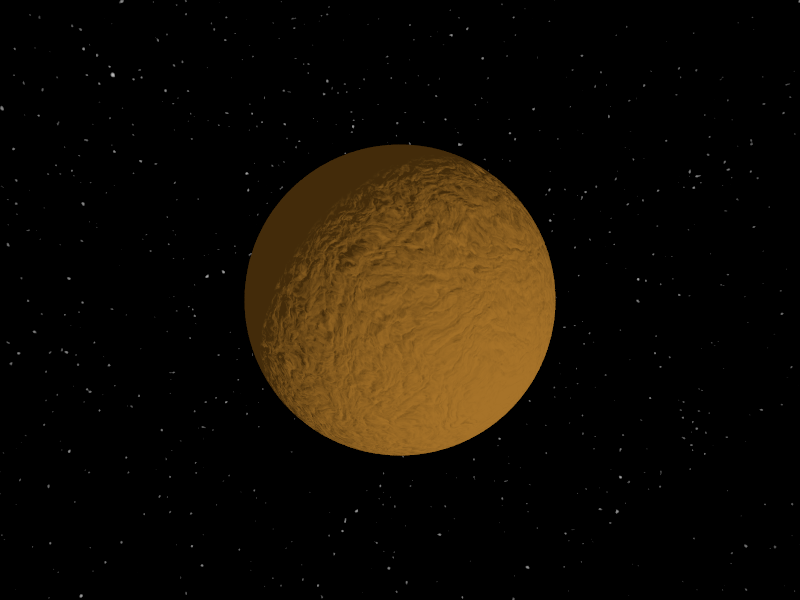
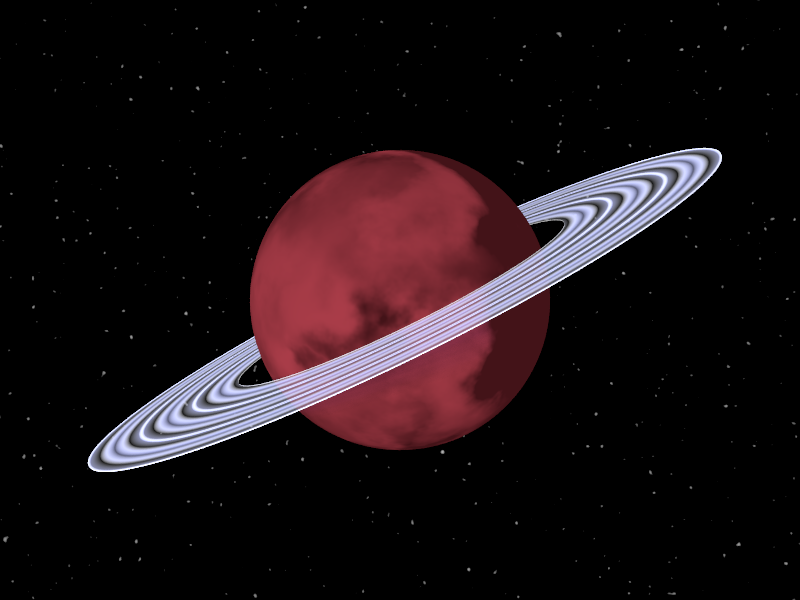
made a bunch of changes

Changed region(s): [[0.0938, 0.24, 0.9062, 0.81]]

diff --git a/planet_objects.py b/planet_objects.py
@@ -49,7 +49,7 @@ def drawStars():
                     [0.2, 'rgb',[0,0,0]],
                     [1.0, 'rgb',[0,0,0]]
                 ),
-                'scale', .006,
+                'scale', .003,
                 'rotate',[0,0,random.randint(0,360)]
             )
         )
@@ -77,18 +77,21 @@ def drawPlanet(color, normal, normal_mag,mag, scale, rotate, translate):
     return(planet)
 
 def drawClouds():
+
+    scale = random.random()
+
     clouds = Sphere ( [0,0,0], 1,
                         Texture ( 
-                        Pigment( 'bozo', 
-                            'scale', 0.1, 
-                            'turbulence', 0,
+                        Pigment( 'bozo',
+                            'scale',.15,
                             ColorMap([0.00, 'rgb', [0.95, 0.95, 0.95]],
                                     [0.10, 'rgb', [1, 1, 1]],
                                     [0.15, 'rgb', [0.85,0.85,0.85,.25]],
                                     [0.50, 'rgb', [1,1,1,1]],
-                                    [1.00, 'rgb', [1,1,1,1]]
+                                    [1.00, 'rgb', [1,1,1,.85]]
                                 )
-                            )
+                            ),
+                            'translate',[0,3,0]
                         ),
                         'scale',1.02,  
                         'rotate',[random.randint(0,360),random.randint(0,360),random.randint(0,360)],  
@@ -104,14 +107,14 @@ def drawRings(planet_color):
     ring_rot_y = random.randint(-45,45)
     ring_rot_z = random.randint(-45,45)
 
-    if invert_chance > 11:
+    if invert_chance > 6:
         ring_color = [planet_color[0]+random.random(),planet_color[1]+random.random(),planet_color[2]+random.random()]
     else:
         ring_color = [1-planet_color[0]+random.random(),1-planet_color[1]+random.random(),1-planet_color[2]+random.random()]
 
     rings = [
         Difference(
-        Cylinder([0,0,0],[0,0,.005], 1.65,
+        Cylinder([0,0,0],[0,0,.005], 2,
                 Texture(Pigment ('wood', 'frequency',3,
                     ColorMap([0.00,'rgb', [ring_color[0],ring_color[1],ring_color[2], 0]],
                              [0.10,'rgb', [ring_color[0],ring_color[1],ring_color[2], .85]],
@@ -136,4 +139,53 @@ def drawRings(planet_color):
         )
     ]
     return(rings)
+
+def drawMoon():
+
+    moon_normal = choose_random_normal()
+
+    moon_rot_x = random.randint(-15,15)
+    moon_rot_y = random.randint(-45,45)
+    moon_rot_z = random.randint(-45,45)
+
+    moon = [Sphere ( [0,0,0], 1,
+        Texture ( 
+            Pigment( 'color', [1,.9,.8]),
+            Normal ( moon_normal, .5, 'scale', .5)                                    
+        ),
+        'scale',.15,
+        'translate',[1.75,0,0],
+        'rotate',[moon_rot_x,0,moon_rot_z] 
+        )]
+    return(moon)
+
+def drawUFO():
+
+    ufo_pos_x = random.randint(0,2)
+    if ufo_pos_x == 0:
+        ufo_pos_x = -2
+    ufo_pos_y = random.randrange(-1,1)
+
+    ufo = Union(
+        Sphere([0,0,0],1,
+            Texture (
+            Pigment ('color', [0,1,0]),
+            Finish ('reflection', .25)
+            ),
+        'scale',.25,
+        'translate',[0,.2,0]
+        ),
+        Cone([0,0,0],1,[0,.25,0],0,
+            Texture(Pigment('color', [.75,.75,.75]),
+            Finish('metallic',.75))
+        ),
+        Cone([0,0,0],1,[0,.25,0],0,
+            Texture(Pigment('color', [.75,.75,.75]),
+            Finish('metallic',.75, 'reflection', .25)),
+            'rotate',[180,0,0]
+        ),
+        'scale',.25,
+        'translate',[ufo_pos_x,ufo_pos_y,0]
+    )
+    return(ufo)
       

diff --git a/dev.py b/dev.py
@@ -34,8 +34,12 @@ def render_planet():
     sun = drawSun()
 
     microplanetChance = random.randint(0,10)
+    cloudChance = random.randint(1,10)
+    ringChance = random.randint(1,10)
+    moonChance = random.randint(1,10)
+    ufoChance = random.randint(1,1000)
 
-    if microplanetChance > 6:
+    if microplanetChance > 9:
         print("generating microplanet")
         planet = drawPlanet(generate_microplanet_color(), planet_normal, normal_mag, rMag(), [1,1,1], [0,0,0], [0,0,0])
         rTreeType = random.randint(0,1)
@@ -43,28 +47,38 @@ def render_planet():
         trees = [makeTrees(rTreeType) for x in range(130)]
         clouds = []
         rings = []
+        moons = []
     else:
         trees = []
         planet = drawPlanet(planet_color, planet_normal, normal_mag, rMag(), [1,1,1], [0,0,0], [0,0,0])
         
         #Generate chance of clouds
-        cloudChance = random.randint(1,10)
-        ringChance = random.randint(1,10)
+
         if cloudChance > 6:
+            print("clouds")
             clouds = [drawClouds()]
             rings = []
         else:
             clouds = []
-            if ringChance > 6:
-                rings = drawRings(planet_color)
-            else:
-                rings = []
+        if ringChance > 6 and clouds == []:
+            print("rings")
+            rings = drawRings(planet_color)
+        else:
+            rings = []
+        if moonChance > 6 and rings == []:
+            print("moons")
+            moons = drawMoon()
+        else:
+            moons = []
+        
+    if ufoChance == 999:
+        ufo = [drawUFO()]
+    else:
+        ufo = []
 
-
-
-    scene = Scene( Camera('angle', 75,'location',  [0.0 , 0,-3.5],
+    scene = Scene( Camera('angle', 30,'location',  [0.0 , 0,-10],
                         'look_at', [0 , 0 , 0.0]),
-                objects = [sky, sun, planet] + trees + clouds + rings,
+                objects = [sky, sun, planet] + trees + clouds + rings + moons+ ufo,
                 included = ["colors.inc", "textures.inc"],
                 defaults = [Finish( 'ambient', 0.1, 'diffuse', 0.9)] )
 

diff --git a/planets.py b/planets.py
@@ -34,8 +34,12 @@ def render_planet():
     sun = drawSun()
 
     microplanetChance = random.randint(0,10)
+    cloudChance = random.randint(1,10)
+    ringChance = random.randint(1,10)
+    moonChance = random.randint(1,10)
+    ufoChance = random.randint(1,1000)
 
-    if microplanetChance > 6:
+    if microplanetChance > 9:
         print("generating microplanet")
         planet = drawPlanet(generate_microplanet_color(), planet_normal, normal_mag, rMag(), [1,1,1], [0,0,0], [0,0,0])
         rTreeType = random.randint(0,1)
@@ -43,28 +47,38 @@ def render_planet():
         trees = [makeTrees(rTreeType) for x in range(130)]
         clouds = []
         rings = []
+        moons = []
     else:
         trees = []
         planet = drawPlanet(planet_color, planet_normal, normal_mag, rMag(), [1,1,1], [0,0,0], [0,0,0])
         
         #Generate chance of clouds
-        cloudChance = random.randint(1,10)
-        ringChance = random.randint(1,10)
+
         if cloudChance > 6:
+            print("clouds")
             clouds = [drawClouds()]
             rings = []
         else:
             clouds = []
-            if ringChance > 6:
-                rings = drawRings(planet_color)
-            else:
-                rings = []
+        if ringChance > 6 and clouds == []:
+            print("rings")
+            rings = drawRings(planet_color)
+        else:
+            rings = []
+        if moonChance > 6 and rings == []:
+            print("moons")
+            moons = drawMoon()
+        else:
+            moons = []
+        
+    if ufoChance == 999:
+        ufo = [drawUFO()]
+    else:
+        ufo = []
 
-
-
-    scene = Scene( Camera('angle', 75,'location',  [0.0 , 0,-3.5],
+    scene = Scene( Camera('angle', 30,'location',  [0.0 , 0,-10],
                         'look_at', [0 , 0 , 0.0]),
-                objects = [sky, sun, planet] + trees + clouds + rings,
+                objects = [sky, sun, planet] + trees + clouds + rings + moons+ ufo,
                 included = ["colors.inc", "textures.inc"],
                 defaults = [Finish( 'ambient', 0.1, 'diffuse', 0.9)] )
 

diff --git a/gen.py b/gen.py
@@ -32,6 +32,16 @@ def choose_random_normal():
     print(choices[choice])
     return(choices[choice])
 
+def choose_moon_normal():
+    choices = [
+        'bumps',
+        'crackle',
+        'dents',
+        'granite']
+    choice = random.randint(0,len(choices)-1)
+    print(choices[choice])
+    return(choices[choice])
+
 def rMag():
     mag = random.random()+.1
     print(mag)
